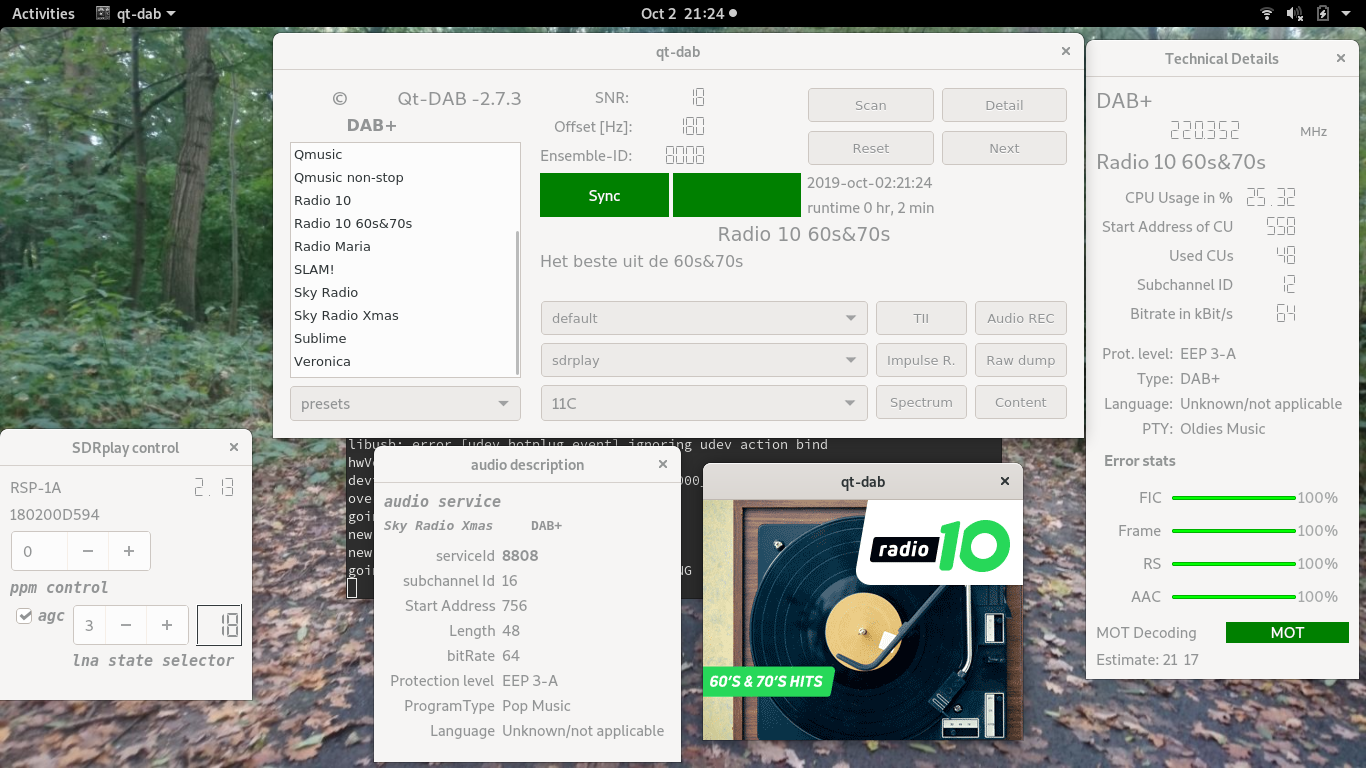
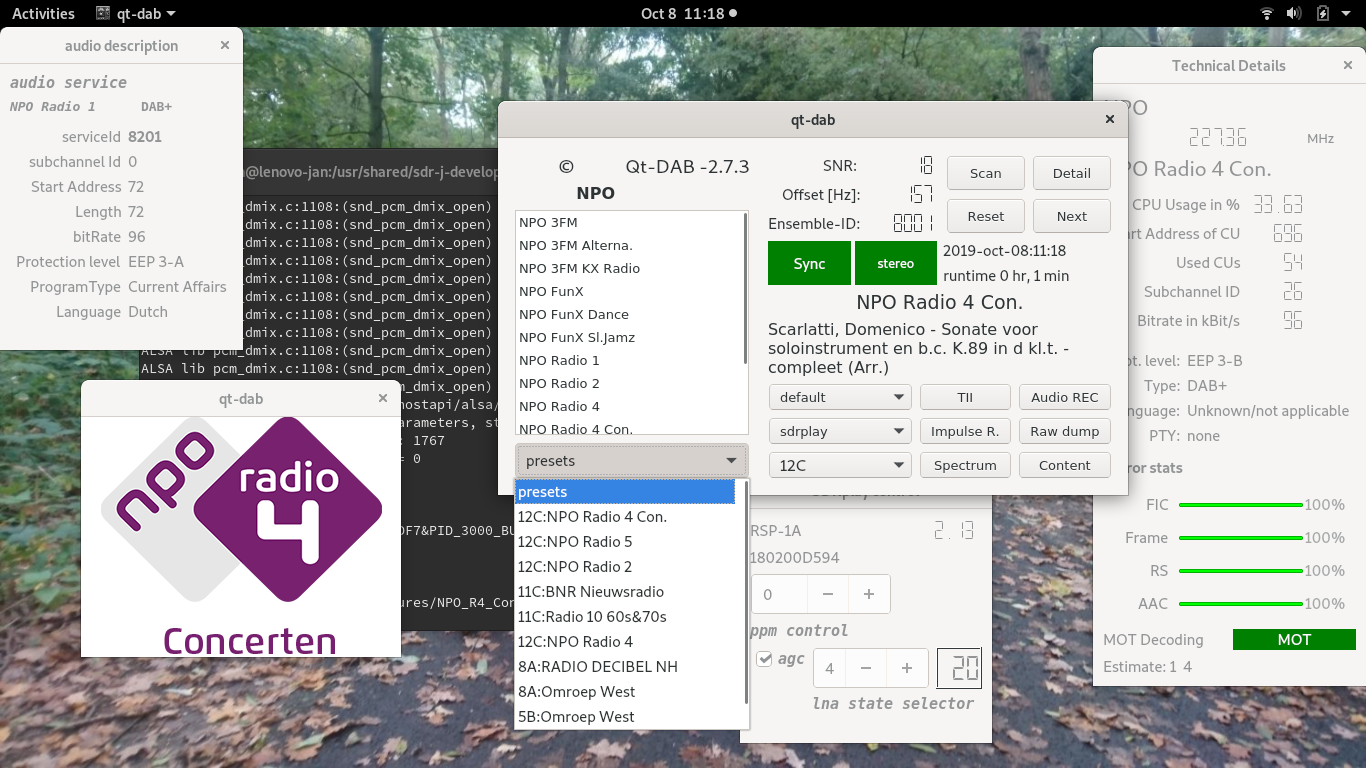
changes to the layouts in the GUI

diff --git a/radio.cpp b/radio.cpp
@@ -250,7 +250,7 @@ QString h;
 	ficSuccess		= 0;
 	pictureLabel		= nullptr;
 	syncedLabel		->
-	               setStyleSheet ("QLabel {background-color : red}");
+	               setStyleSheet ("QLabel {background-color : red; color: white}");
 
 	ensemble.setStringList (Services);
 	ensembleDisplay	-> setModel (&ensemble);
@@ -650,11 +650,11 @@ void	RadioInterface::show_motHandling (bool b) {
 	   return;
 	if (b) {
 	   techData. motAvailable -> 
-	               setStyleSheet ("QLabel {background-color : green}");
+	               setStyleSheet ("QLabel {background-color : green; color: white}");
 	}
 	else {
 	   techData. motAvailable ->
-	               setStyleSheet ("QLabel {background-color : red}");
+	               setStyleSheet ("QLabel {background-color : red; color : white}");
 	}
 }
 	
@@ -676,7 +676,7 @@ void	RadioInterface::setSynced	(char b) {
 	switch (isSynced) {
 	   case SYNCED:
 	      syncedLabel -> 
-	               setStyleSheet ("QLabel {background-color : green}");
+	               setStyleSheet ("QLabel {background-color : green; color: white}");
 	      break;
 
 	   default:
@@ -698,7 +698,7 @@ void	RadioInterface::setStereo	(bool s) {
 	   return;
 	if (s) { 
 	   stereoLabel -> 
-	               setStyleSheet ("QLabel {background-color : green}");
+	               setStyleSheet ("QLabel {background-color : green; color: white}");
 	   stereoLabel -> setText ("stereo");
 	}
 	else {

diff --git a/main.cpp b/main.cpp
@@ -113,7 +113,7 @@ int     opt;
  *      instantiate
  */
 #if QT_VERSION >= 0x050600
-        QGuiApplication::setAttribute (Qt::AA_EnableHighDpiScaling);
+	QGuiApplication::setAttribute (Qt::AA_EnableHighDpiScaling);
 #endif
 
 	QApplication a (argc, argv);

diff --git a/README.md b/README.md
@@ -7,36 +7,41 @@ New in 2.7.3
 -----------------------------------------------------------------
 
 I was not very satisfied with the presets being shown in a separate
-list. In 2.7.3 the GUI is extended with a combobox - at the bottom
+list as was done in the 2.7.2 version.
+In 2.7.3 the GUI is extended with a combobox - at the bottom
 of the service list - that will contain the presets.
 
+The presets are stored in xml format in a file ".qt-dab-presets.xml"
+which is kept in the home directory (folder) of the user.
+On program start this file will be read (note that if some *file input*
+is selected, the preset selector will not be shown). On *regular*
+program termination, the preset file is rewritten.
+
 The encoding of the presets is as *channel:service*, it sometimes
-happens that different channels have (diferently encoded) versions
-of the same service.
+happens that different channels have (differently encoded) versions
+of the same service (here, channel 5B and channel 8A
+both carry a service "Omroep West").
 
 ![Qt-DAB with sdrplay input](/qt-dab-presets.png?raw=true)
 
-Adding a service to the *presets* is by *clicking with the right mouse
+Adding a service to the *presets* is simply by *clicking with the right mouse
 button on the name of the service that is currently selected in the
-servicelist*.
+servicelist* (recall that clicking with the *left* mouse button
+well select the service with that name).
 
 Of course, one is also able to *remove* an entry from the presets.
 To do this, select the entry (by putting the curson on it without
 clicking any of the mouse buttons) and press the *shift* and the *delete*
 button on the keyboard simultaneously.
 
-*Note that clicking with the right mouse button on any other service name
+Note that clicking with the *right* mouse button on any other service name
 than the currently selected one will show some technical data of that service as shown in the picture below.
 
 ![Qt-DAB with sdrplay input](/qt-dab-servicedata.png?raw=true)
 
-The presets are stored in xml format in a file ".qt-dab-presets.xml"
-which is kept in the home directory (folder) of the user.
-On program start this file will be read (note that if some *file input*
-is selected, the preset selector will not be shown).
-
-In 2.7.2 - thanks to stuart Longland - (most) widgets became resizable
-and a first version of the "presets" was made.
+In 2.7.2 - thanks to Stuart Longland - (most) widgets became resizable
+and he suggested to create presets, so in 2.7.2 a first version
+of the "presets" was made.
 
 -----------------------------------------------------------------
 NEW in 2.7.1
